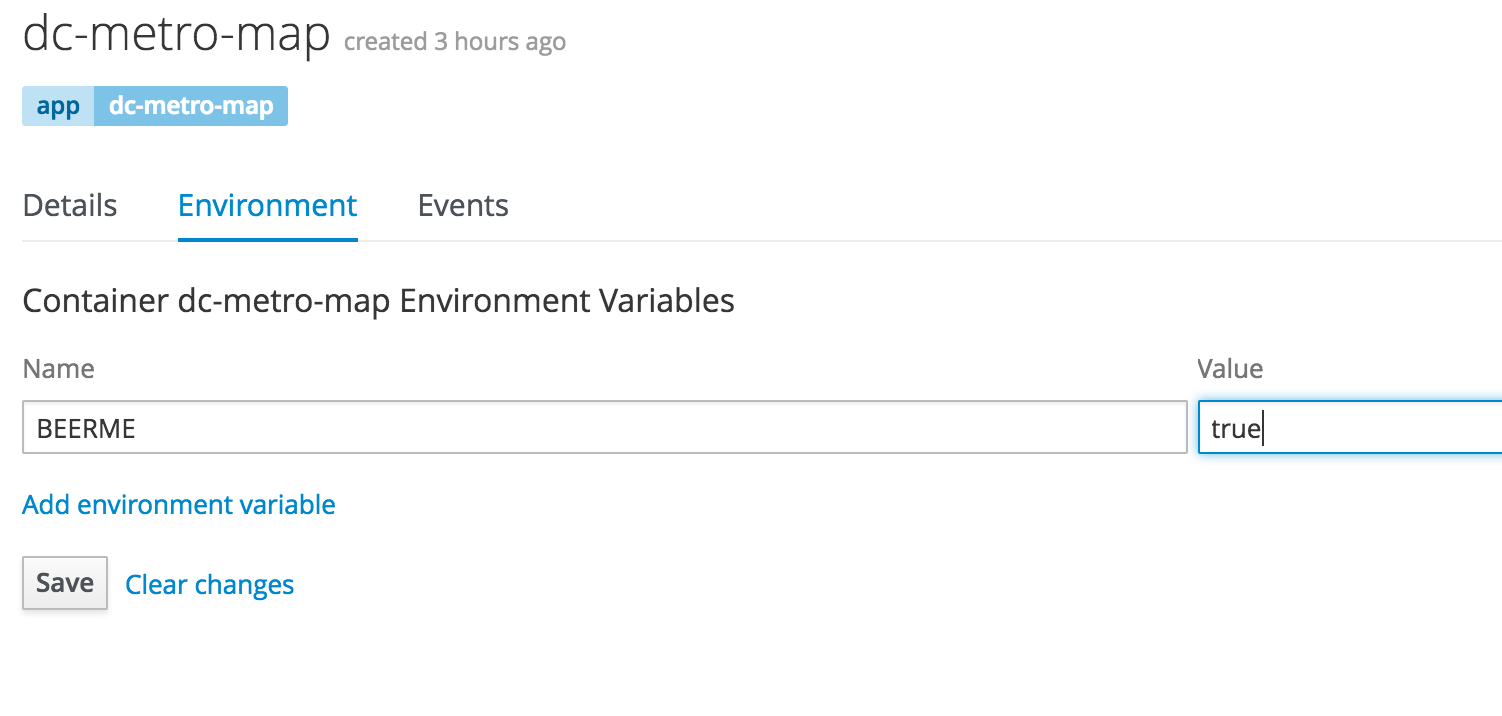
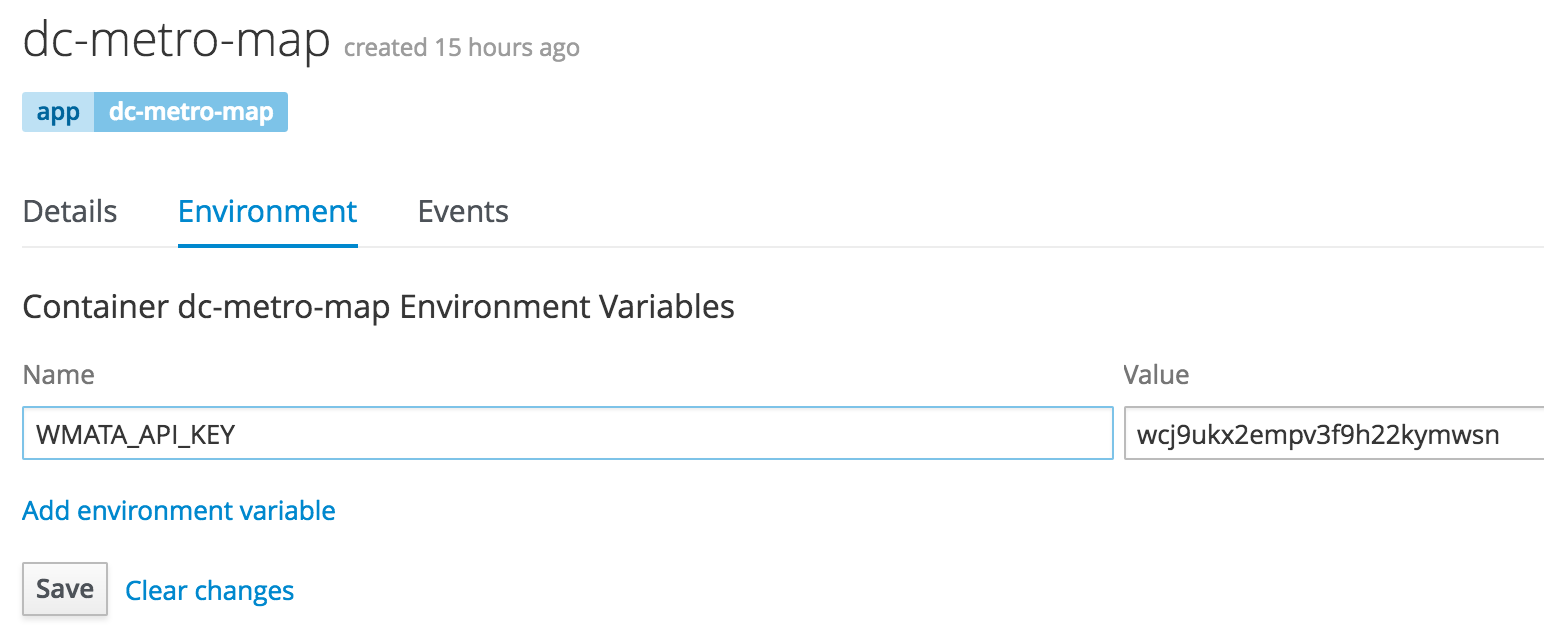
changes to s2i, blue/green, devmanagement

diff --git a/www/3.4/default/workshop-lab-devmanage.md b/www/3.4/default/workshop-lab-devmanage.md
@@ -17,13 +17,13 @@ From the previous lab you should have the DC Metro Maps web app running in OpenS
 > <i class="fa fa-terminal"></i> Goto the terminal and type these commands:
 
 {% highlight csh %}
-$ oc new-app --name=dc-metro-map https://github.com/dudash/openshift-workshops.git --context-dir=dc-metro-map
+$ oc new-app --name=dc-metro-map https://github.com/brandoncox/openshift-workshops.git --context-dir=dc-metro-map
 $ oc expose service dc-metro-map
 {% endhighlight %}
 
 
 ### See the app in action and inspect some details
-There is no more ambiguity or confusion about where the app came from.  OpenShift provides traceability for your running deployment back to the docker image and the registry it came from, as well as (for images built by openshift) back to the exact source code branch and commit.  Let's take a look at that.
+There is no more ambiguity or confusion about where the app came from.  OpenShift provides traceability for your running deployment back to the docker image and the registry it came from, as well as (for images built by OpenShift) back to the exact source code branch and commit.  Let's take a look at that.
 
 <div class="panel-group" id="accordionA" role="tablist" aria-multiselectable="true">
   <div class="panel panel-default">
@@ -44,11 +44,11 @@ There is no more ambiguity or confusion about where the app came from.  OpenShif
 $ oc status
 {% endhighlight %}
 
-This is going to show the status of your current project.  In this case it will show the dc-metro-map service (svc) with a nested deployment config (dc) along with some more info that you can ignore for now.  
+This is going to show the status of your current project.  In this case it will show the dc-metro-map <u>service</u> (svc) with a nested <u>deployment config</u> (dc) along with some more info that you can ignore for now.  
 
-<br/><br/><i class="fa fa-info-circle"></i>  A deployment in OpenShift is a replication controller based on a user defined template called a deployment configuration <br/><br/>
+<br/><br/><i class="fa fa-info-circle"></i>  A deployment in OpenShift is a replication controller based on a user defined template called a <u>Deployment Config</u> <br/><br/>
 
-The dc provides us details we care about to see where our application image comes from, so let's check it out in more detail.
+The Deployment Config provides us details we care about to see where our application image comes from, so let's check it out in more detail.
 
 <blockquote>
 <i class="fa fa-terminal"></i> Type the following to find out more about our dc:
@@ -59,9 +59,9 @@ $ oc describe dc/dc-metro-map
 
 Notice under the template section it lists the containers it wants to deploy along with the path to the container image.
 
-<br/><br/><i class="fa fa-info-circle"></i> There are a few other ways you could get to this information.  If you are feeling adventurous, you might want to describe the replication controller (oc describe rc -l app=dc-metro-map), the image stream (oc describe is -l app=dc-metro-map) or the running pod itself (oc describe pod -l app=dc-metro-map).<br/><br/>
+<br/><br/><i class="fa fa-info-circle"></i> There are a few other ways you could get to this information.  If you are feeling adventurous, you might want to describe the <u>replication controller</u> (<strong>oc describe rc -l app=dc-metro-map</strong>), the <u>image stream</u> (<strong>oc describe is -l app=dc-metro-map</strong>) or the running <u>pod</u> itself (<strong>oc describe pod -l app=dc-metro-map</strong>).<br/><br/>
 
-Because we built this app using S2I, we get to see the details about the build - including the container image that was used for building the source code.  So let's find out where the image came from.  Here are the steps to get more information about the build configuration (bc) and the builds themselves.
+Because we built this app using S2I, we get to see the details about the build - including the container image that was used for building the source code.  So let's find out where the image came from.  Here are the steps to get more information about the <u>build configuration</u> (bc) and the builds themselves.
 
 <blockquote>
 <i class="fa fa-terminal"></i> Type the following to find out more about our bc:
@@ -79,7 +79,7 @@ Notice the information about the configuration of how this app gets built.  In p
 $ oc describe build/dc-metro-map-1
 {% endhighlight %}
 
-This shows us even more about the deployed container's build and source code including exact commit GUID for this build.  We can also can see the commit's author, and the commit message.  You can inspect the code by opening a web browser and pointing it to: https://github.com/dudash/openshift-workshops/commit/[COMMIT_GUID]
+This shows us even more about the deployed container's build and source code including exact commit GUID for this build.  We can also can see the commit's author, and the commit message.  You can inspect the code by opening a web browser and pointing it to: https://github.com/brandoncox/openshift-workshops/commit/[COMMIT_GUID]
 
       </div>
     </div>
@@ -231,7 +231,7 @@ Let's have a little fun.  The app has some easter eggs that get triggered when c
 <i class="fa fa-terminal"></i> Goto the terminal and type the following:
 </blockquote>
 {% highlight csh %}
-$ oc env dc/dc-metro-map -e BEERME=true
+$ oc env dc/dc-metro-map -e WMATA_API_KEY=wcj9ukx2empv3f9h22kymwsn
 {% endhighlight %}
 
 {% highlight csh %}
@@ -244,7 +244,7 @@ Due to the deployment config strategy being set to "Rolling" and the "ConfigChan
 <i class="fa fa-terminal"></i> Type Ctrl+C to stop watching the pods
 </blockquote>
 
-<i class="fa fa-info-circle"></i> You can set env variables across all deployment configs with 'dc --all' instead of specifying a specifc config
+<i class="fa fa-info-circle"></i> You can set env variables across all deployment configs with 'dc --all' instead of specifying a specific config
 
       </div>
     </div>
@@ -277,7 +277,7 @@ Click the Environment tab next to the Details tab .
 This opens up a tab with the environment variables for this deployment config.
 
 <blockquote>
-Add an environment variable with the name BEERME and a value of 'true'
+Add an environment variable with the name <strong>WMATA_API_KEY</strong> and a value of <strong>wcj9ukx2empv3f9h22kymwsn</strong>
 </blockquote>
 <p><img src="{{ site.baseurl }}/www/3.4/default/screenshots/ose-lab-devman-deployconfigdetails-populated.png" width="500"/></p>
 
@@ -290,7 +290,7 @@ If you are quick enough you will see a new pod spin up and an the old pod spin d
   </div>
 </div>
 
-With the new environment variables set the app should look like this in your web browser (with beers instead of busses):
+With the new environment variables set the app should look like this in your web browser (with live bus locations showing):
 
 <p><img src="{{ site.baseurl }}/www/3.4/default/screenshots/ose-lab-devman-beerme.png" width="500"/></p>
 
@@ -330,10 +330,10 @@ $ oc exec -it [POD NAME] /bin/bash
 You are now interactively attached to the container in your pod.  Let's look for the environment variables we set:
 
 {% highlight csh %}
-$ env | grep BEER
+$ env | grep WMATA_API_KEY
 {% endhighlight %}
 
-That should return the **BEERME=true** matching the value that we set in the deployment config.
+That should return the <strong>WMATA_API_KEY=wcj9ukx2empv3f9h22kymwsn</strong> matching the value that we set in the deployment config.
 
 {% highlight csh %}
 $ exit
@@ -362,16 +362,19 @@ Click the pod that starts with "dc-metro-map-" and has a status of Running
 </blockquote>
 
 <blockquote>
-Click the "Terminal" button
+Click the "Terminal" tab
 </blockquote>
 
 <p><img src="{{ site.baseurl }}/www/3.4/default/screenshots/ose-lab-devman-podterminal.png" width="500"/></p>
-Let's look for the environment variables we set:
 
 <blockquote>
-Inside the web page's terminal type: 'env | grep BEER'
+Let's look for the environment variables we set. Inside the web page's terminal type:
 </blockquote>
-That should return the **BEERME=true** matching the value that we set in the deployment config.
+{% highlight csh %}
+'env | grep WMATA_API_KEY'
+{% endhighlight %}
+
+That should return the <strong>WMATA_API_KEY=wcj9ukx2empv3f9h22kymwsn</strong> matching the value that we set in the deployment config.
 
       </div>
     </div>

diff --git a/www/3.4/default/workshop-lab-s2i.md b/www/3.4/default/workshop-lab-s2i.md
@@ -28,11 +28,11 @@ We can do this either via the command line (CLI) or the web console.  You decide
 <i class="fa fa-terminal"></i> Goto the terminal and type the following:
 </blockquote>
 {% highlight csh %}
-$ oc new-app --name=dc-metro-map https://github.com/dudash/openshift-workshops.git --context-dir=dc-metro-map
+$ oc new-app --name=dc-metro-map https://github.com/brandoncox/openshift-workshops.git --context-dir=dc-metro-map
 $ oc expose service dc-metro-map
 {% endhighlight %}
 
-<i class="fa fa-info-circle"></i> OpenShift auotmatically detected the source code type and selected the nodejs builder image
+<i class="fa fa-info-circle"></i> OpenShift automatically detected the source code type and selected the nodejs builder image
 
       </div>
     </div>
@@ -51,12 +51,20 @@ $ oc expose service dc-metro-map
 <blockquote>
 Click "Add to Project"
 </blockquote>
-<p><img src="{{ site.baseurl }}/www/3.4/default/screenshots/ose-lab-s2i-addbutton.png" width="100"/></p>
+<p><img src="{{ site.baseurl }}/www/3.4/default/screenshots/ose-lab-rollbacks-add-to-project.png" width="100"/></p>
 
 <blockquote>
-Click "Browse Catalog" and filter for nodejs, then click the nodejs:0.10 builder image
+Click "Browse Catalog" and view options for languages and services that come out-of-the-box with OpenShift.
 </blockquote>
 <p><img src="{{ site.baseurl }}/www/3.4/default/screenshots/ose-lab-s2i-filternode.png" width="600"/></p>
+<blockquote>
+Under "Languages", click the option for Javascript as we are planning to deploy a NodeJS application.
+</blockquote>
+<p><img src="{{ site.baseurl }}/www/3.4/default/screenshots/ose-lab-s2i-choosejavascript.png" width="200"/></p>
+<blockquote>
+There are a few types of Javascript templates to choose from. Choose the Node.js, version 4 template.
+</blockquote>
+<p><img src="{{ site.baseurl }}/www/3.4/default/screenshots/ose-lab-s2i-choosenode.png" width="200"/></p>
 
 <blockquote>
 Fill out the boxes to look as follows:
@@ -64,7 +72,7 @@ Fill out the boxes to look as follows:
 <p><img src="{{ site.baseurl }}/www/3.4/default/screenshots/ose-lab-s2i-addtoproject.png" width="600"/></p>
 <p>
 Notes: You will need to click to expand the "advanced options"<br/>
-The github repository URL is: https://github.com/dudash/openshift-workshops.git<br/>
+The github repository URL is: https://github.com/brandoncox/openshift-workshops.git<br/>
 The github context-dir is: dc-metro-map<br/>
 </p>
 
@@ -137,7 +145,7 @@ Click on the "dc-metro-map" link
 <blockquote>
 Click on the "View Log" tab to see the details of your latest build
 </blockquote>
-<p><img src="{{ site.baseurl }}/www/3.4/default/screenshots/ose-lab-s2i-metromapbuilds.png" width="500"/></p>
+<p><img src="{{ site.baseurl }}/www/3.4/default/screenshots/ose-lab-s2i-metromapbuilds.png" width="300"/></p>
 
 You should see a log output similar to the one below:
 <p><img src="{{ site.baseurl }}/www/3.4/default/screenshots/ose-lab-s2i-metromapbuildlog.png" width="500"/></p>
@@ -172,6 +180,8 @@ $ oc get routes
 <blockquote>
 Copy the HOST/PORT and paste into your favorite web browser
 </blockquote>
+<p><img src="{{ site.baseurl }}/www/3.4/default/screenshots/ose-lab-s2i-cli-getroutes.png" width="600"/></p>
+
 
       </div>
     </div>

diff --git a/www/3.4/default/workshop-lab-welcome.md b/www/3.4/default/workshop-lab-welcome.md
@@ -36,15 +36,15 @@ OpenShift provides a web console that allow you to perform various tasks via a w
 Once logged in you should see your available projects - or a button to create a project if none exist already.
 
 ### So this is what an empty project looks like
-First let's create a new project to do our workshop work in.  We will use the student number you were given to ensure you don't clash with classmates, so in the steps below replace 'YOUR#' with your student number.
+First let's create a new project to do our workshop work in.  We will use the student number you were given to ensure you don't clash with classmates, so in the steps below replace '$USER_ID' with the userID provided to you.
 
-> Click on the "New Project" button and give it a name of demo-YOUR#
+> Click on the "New Project" button and give it a name of demo-$USER_ID
 
-> Populate "Display Name" with "demo-YOUR#" and populate "Description" boxes with whatever you like.  And click "Create"
+> Populate "Display Name" with "demo-$USER_ID" and populate "Description" boxes with whatever you like.  And click "Create"
 
 This is going to take you to the next logical step of adding something to the project, but we don't want to do that just yet.
 
-> Click the "demo-YOUR#" link on the top left to goto your project
+> Click the "demo-$USER_ID" link on the top left to goto your project
 
 Don't worry, it's supposed to look empty right now because you currently don't have anything in your project (we'll fix that in the next lab).
 
@@ -52,7 +52,7 @@ Don't worry, it's supposed to look empty right now because you currently don't h
 > <i class="fa fa-terminal"></i> Open a terminal and login using the same URI/user/password with following command:
 
 {% highlight csh %}
-$ oc login [URI]
+$ oc login https://master.ose.lab-emergent360.com:8443
 {% endhighlight %}
 
 > <i class="fa fa-terminal"></i> Check to see what projects you have access to:
@@ -67,7 +67,7 @@ You just created a project using the web console, let's tell the terminal comman
 > <i class="fa fa-terminal"></i> Type the following command to use the demo project
 
 {% highlight csh %}
-$ oc project demo-YOUR#
+$ oc project demo-$USER_ID
 {% endhighlight %}
 
 > <i class="fa fa-terminal"></i> Type the following command to show services, deployment configs, build configurations, and active deployments (this will come in handy later):

diff --git a/www/3.4/default/workshop-lab-bluegreen.md b/www/3.4/default/workshop-lab-bluegreen.md
@@ -31,6 +31,8 @@ $ oc expose service blue
 
 Note that we exposed this application using a route named "blue". Wait for the application to become available, then navigate to your application and validate it deployed correctly.
 
+<p><img src="{{ site.baseurl }}/www/3.4/default/screenshots/ose-lab-bluegreen-blue.png" width="500"/></p>
+
 ### Release a new version of our app and test it in the same environment
 What we'll do next is create a new version of the application called "green". The quickest way to make a change to the code is directly in the GitHub web interface. In GitHub, edit the bluegreen/image.php file in your repo.
 
@@ -57,7 +59,7 @@ $ oc new-app --name=green [your-project-repo-url]
 Wait for the "green" application to become available before proceeding.
 
 
-### Switch from Green to Blue
+### Switch from Blue to Green
 Now that we are satisfied with our change we can do the Green/Blue switch.  With OpenShift services and routes, this is simple.  Follow the steps below to make the switch:
 
 <div class="panel-group" id="accordionA" role="tablist" aria-multiselectable="true">
@@ -112,6 +114,10 @@ Edit the Route: select the name dropdown and change the value from "blue" to "gr
   </div>
 </div>
 
+### Verify
+If all worked properly, we should see the same route now point to the new version of the application (as shown below).
+
+<p><img src="{{ site.baseurl }}/www/3.4/default/screenshots/ose-lab-bluegreen-green.png" width="500"/></p>
 <!--### Good work, let's clean this up
 > <i class="fa fa-terminal"></i> Let's clean up all this to get ready for the next lab:
 
